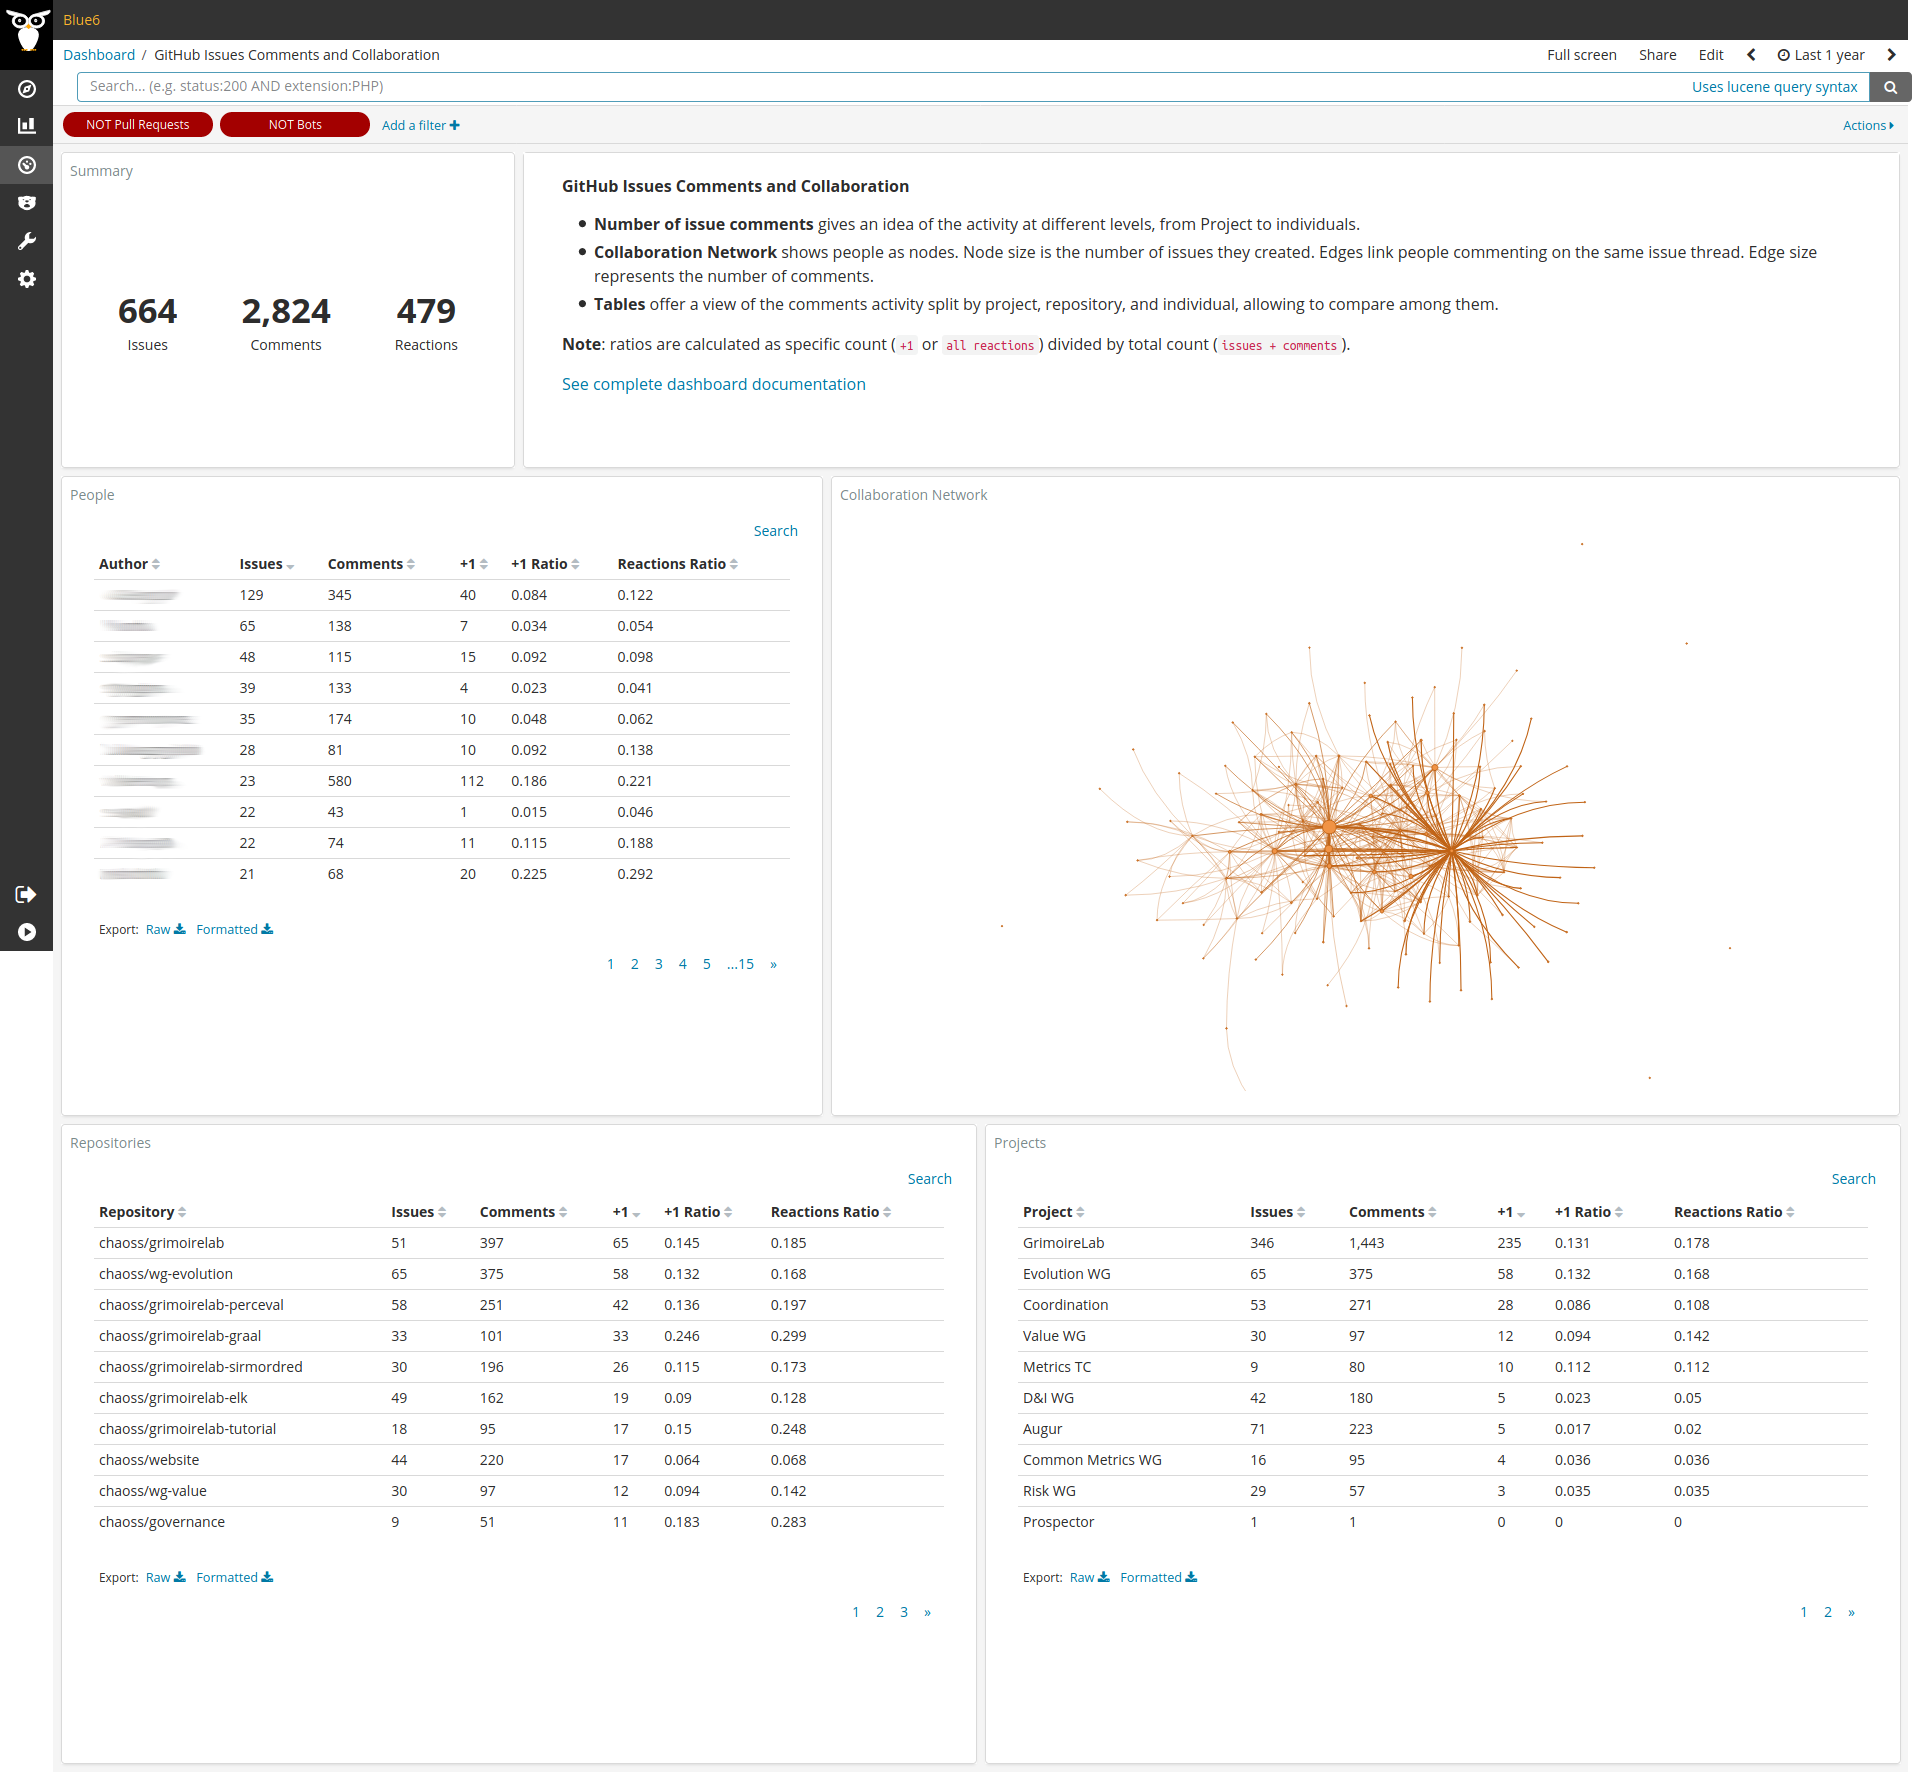
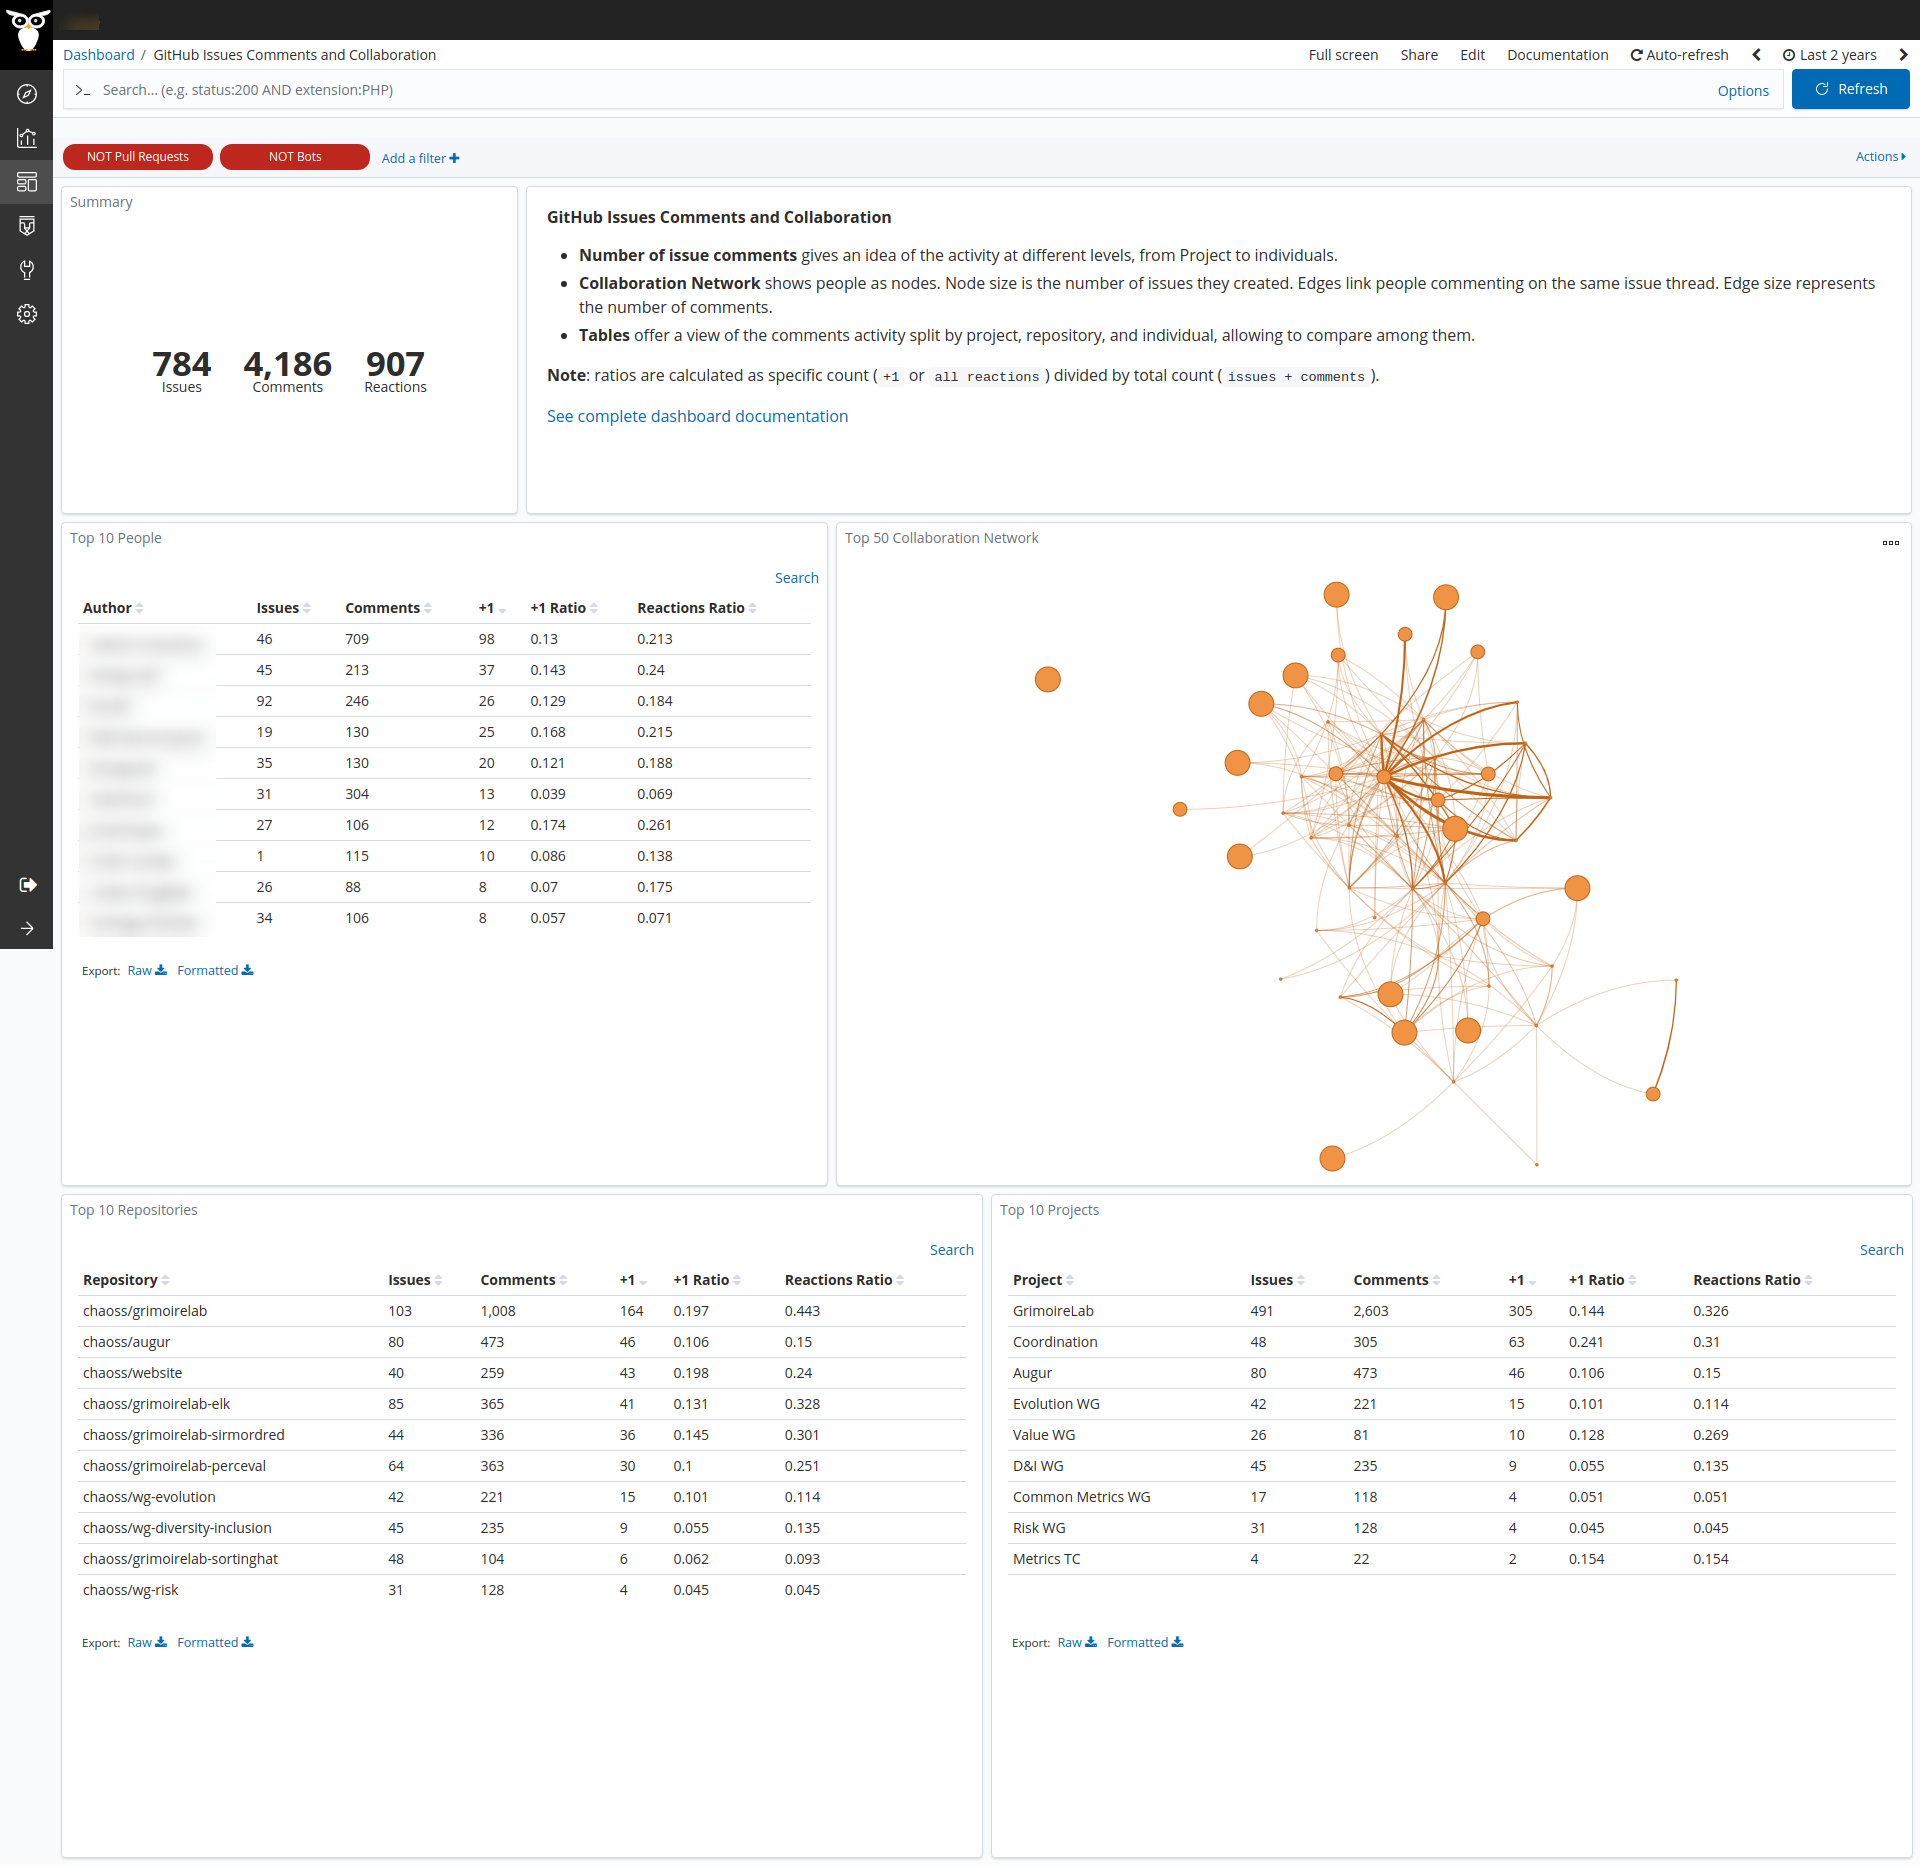
[github2] Limit visualizations to fix low performance.
This code limits some visualizations to fix low performance.

Limited by the first 10 items:
- github2_issues_author_comments_activity
- github2_issues_repo_comments_activity
- github2_issues_project_comments_activity
- github2_pull_requests_author_comments_activity
- github2_pull_requests_repo_comments_activity
- github2_pull_requests_project_comments_activity

Limited by the first 50 items:
- github2_issues_collaboration_network
- github2_pull_requests_collaboration_network

Docs updated accordingly.

diff --git a/docs/_panels/github-pull-requests-comments-and-collaboration.md b/docs/_panels/github-pull-requests-comments-and-collaboration.md
@@ -23,11 +23,11 @@ the collaboration is**.
 
 * **Summary**: general numbers to give an idea about the amount of data taken into account given the
     current dashboard filters and time frame.
-* **Collaboration Network**: shows people as nodes. 
+* **Top 50 Collaboration Network**: shows people as nodes (first 50).
     * Node size is the number of pull requests they created. 
     * Edges link people commenting on the same thread. 
     * Edge size represents the number of comments.
-* **People**: this table split data by persons. Each row consists of:
+* **Top 10 People**: this table split data by persons (first 10). Each row consists of:
     * Pull Requests: number of pull requests created by that person.
     * Comments: number of comments created by that person.
     * +1: number of `+1` reactions received by pull requests or comments created by that person.
@@ -35,8 +35,8 @@ the collaboration is**.
      created by that person.
     * Reactions Ratio: same as `+1 Ratio` but for all kind of reactions. Useful to compare to `+1 Ratio`
         and thus analyze the impact of people's contributions. 
-* **Repositories**: same as **People** table but split by repository.
-* **Projects**:  same as **People** table but split by project.
+* **Top 10 Repositories**: same as **People** table but split by repository (first 10).
+* **Top 10 Projects**:  same as **People** table but split by project (first 10).
 
 Tables are here to allow to drill down on people's contributions and understand their actual impact on the
 different repositories and projects. Nevertheless, these tables provide

diff --git a/docs/_panels/github-issues-comments-and-collaboration.md b/docs/_panels/github-issues-comments-and-collaboration.md
@@ -20,11 +20,11 @@ the collaboration is**.
 
 * **Summary**: general numbers to give an idea about the amount of data taken into account given the
     current dashboard filters and time frame.
-* **Collaboration Network**: shows people as nodes. 
+* **Top 50 Collaboration Network**: shows people as nodes (first 50).
     * Node size is the number of issues they created. 
     * Edges link people commenting on the same issue thread. 
     * Edge size represents the number of comments.
-* **People**: this table split data by persons. Each row consists of:
+* **Top 10 People**: this table split data by persons (first 10). Each row consists of:
     * Issues: number of issues created by that person.
     * Comments: number of comments created by that person.
     * +1: number of `+1` reactions received by issues or comments created by that person.
@@ -32,8 +32,8 @@ the collaboration is**.
         that person.
     * Reactions Ratio: same as `1 Ratio` but for all kind of reactions. Useful to compare to `+1 Ratio`
         and thus analyze the impact of people's contributions. 
-* **Repositories**: same as **People** table but split by repository.
-* **Projects**:  same as **People** table but split by project.
+* **Top 10 Repositories**: same as **People** table but split by repository (first 10).
+* **Top 10 Projects**:  same as **People** table but split by project (first 10).
 
 Tables are here to allow to drill down on people's contributions and understand their actual impact on the
 different repositories and projects. Nevertheless, these tables provide
